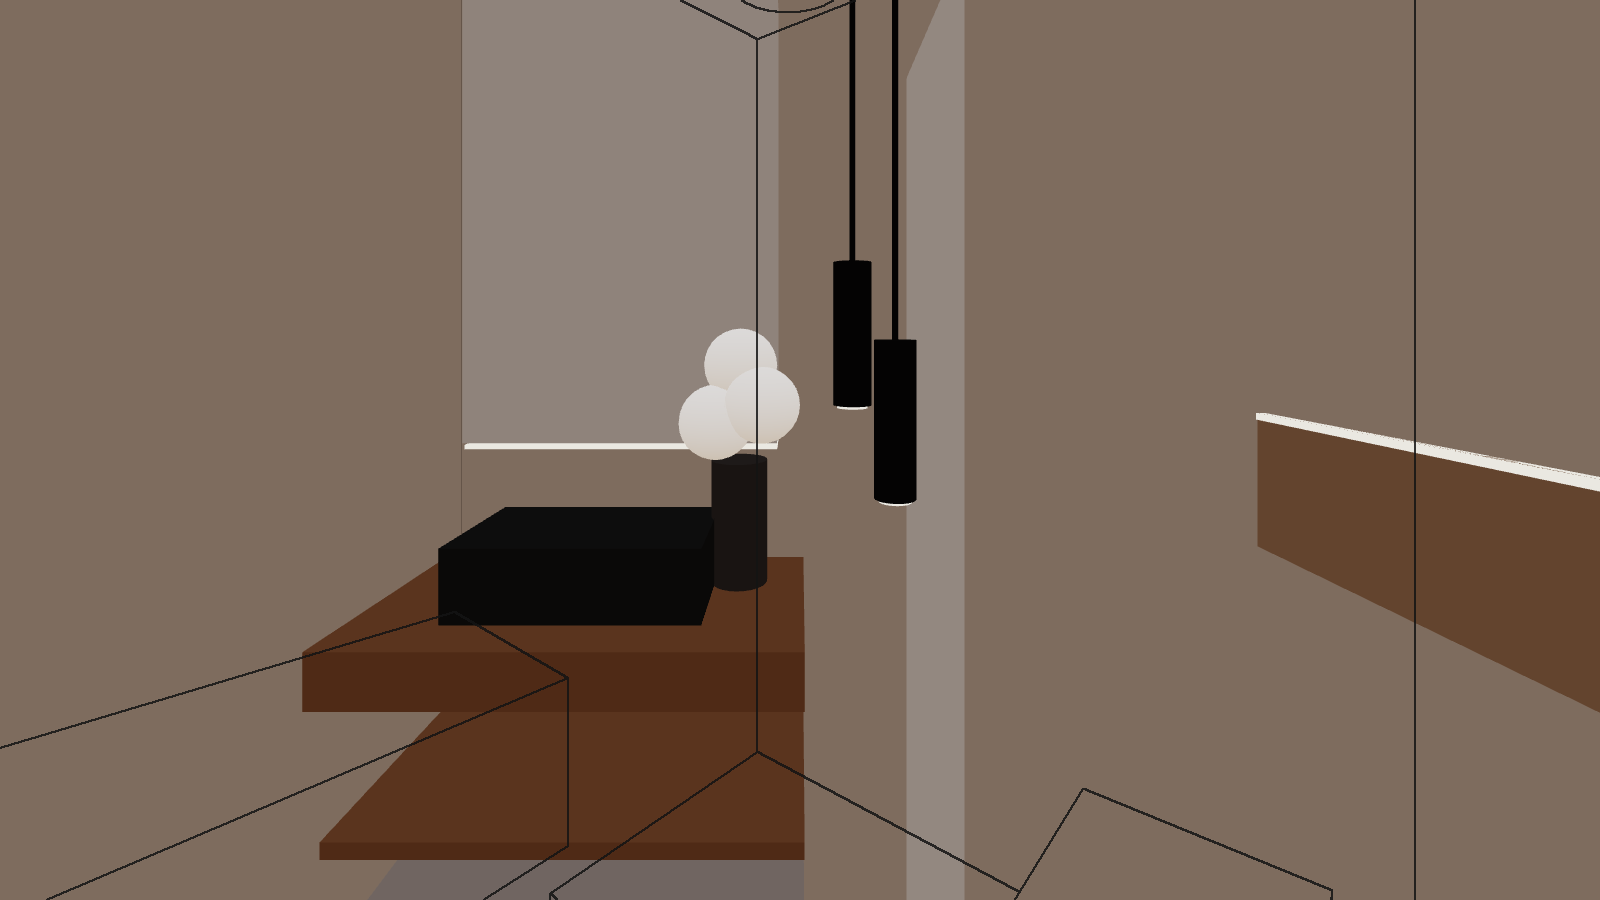
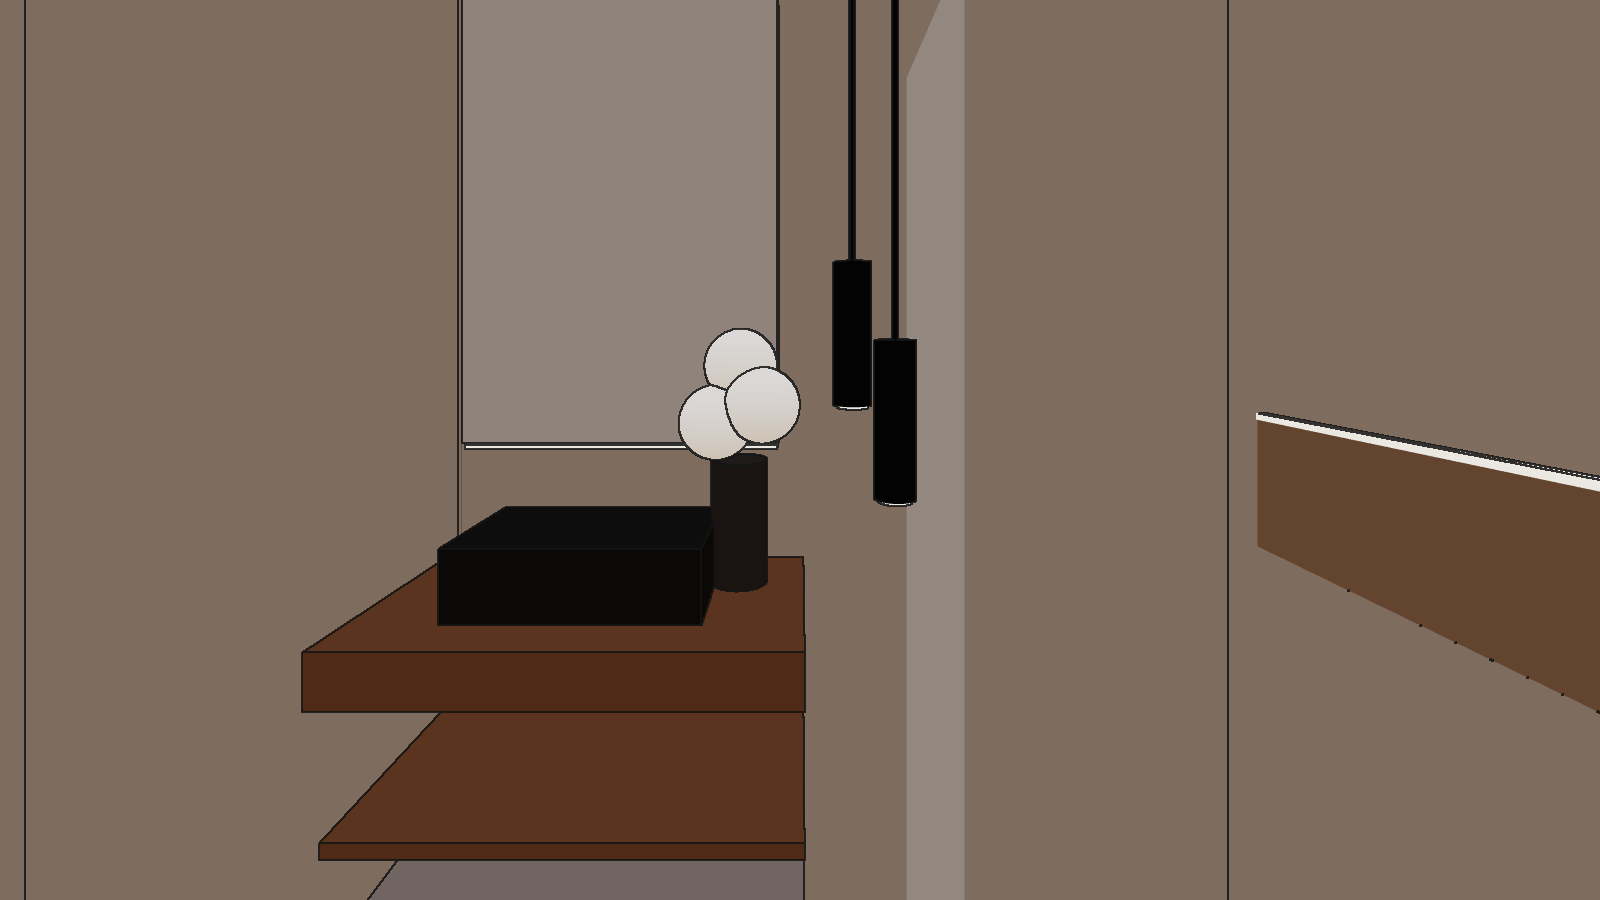
Fix stale gt_edges: rebuild after every render (guides of re-aimed cameras carried old edges)
Claude-Session: https://claude.ai/code/session_01ETmbUPpvTDduvuaab54EVi

diff --git a/luxury-render/engine/compose_guide.py b/luxury-render/engine/compose_guide.py
@@ -11,8 +11,7 @@ import gt_edges
 
 for b in sys.argv[1:]:
     gt = os.path.join(b, "gt_edges.png")
-    if not os.path.exists(gt):
-        gt_edges.run(b)
+    gt_edges.run(b)          # always: a gt_edges.png left from an earlier render would burn stale geometry into the guide
     g = cv2.imread(os.path.join(b, "guide.png")).astype(np.float32)
     e = cv2.imread(gt, cv2.IMREAD_GRAYSCALE) < 128
     e = cv2.dilate(e.astype(np.uint8), np.ones((2, 2), np.uint8)).astype(bool)
